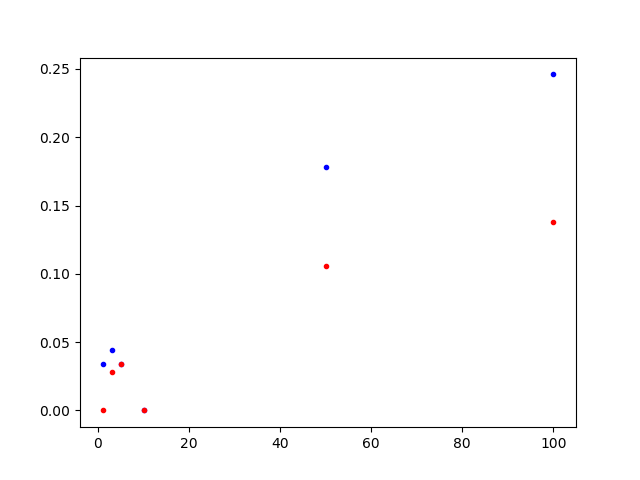
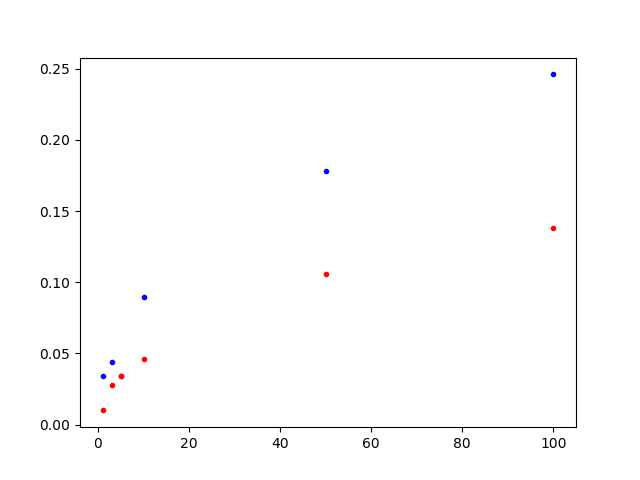
Accuracy plot, top 500

diff --git a/baseline.py b/baseline.py
@@ -118,7 +118,7 @@ def plot_kde(df, col):
     Recommend most recent, according to subject preference:
 '''
 
-def recent_subject(user, user_subjects, subject_areas):
+def recent_subject(user, user_subjects, subject_areas, most_recent_items):
     '''
     Recommends most recent item in user's chosen subject area:
 
@@ -126,22 +126,40 @@ def recent_subject(user, user_subjects, subject_areas):
     user: (int) User ID
     user_subjects: (pandas Dataframe) Users' chosen subject areas
     subject_areas: (pandas Dataframe) Subject area metadata
+    most_recent_items: (pandas Dataframe) Most recent items by subject
 
     OUTPUT:
-    rec: (int) Content ID of recommended document
+    rec: (str) Content ID of recommended document
     '''
     usa_mat = user_subjects.values
 
     mask = (usa_mat[:,0] == user)
 
-    areas = np.array(zip(*usa_mat[mask][1]))
+    areas = np.array(zip(*usa_mat[mask])[1])
 
     area = np.random.choice(areas)
 
-    area_name = subject_areas.loc[subject_areas.SubjectAreaID == area,\
-        ['SubjectAreaName']].values.flatten()[0]
+    area_n = subject_areas.loc[subject_areas.SubjectAreaID == area,\
+        ['SubjectAreaName']].values
 
-    return rec
+    if area_n:
+        area_name = area_n.flatten()[0]
+
+        reco = most_recent_items.loc[most_recent_items.primary_subject_area == \
+            area_name, ['content_id']].values
+
+        # print reco
+
+        if reco:
+            rec = reco.flatten()[0]
+            # rec = most_recent_items.loc[most_recent_items.primary_subject_area == \
+            #     area_name, ['content_id']].values.flatten()[0]
+
+            return str(rec)
+        else:
+            return None
+    else:
+        return None
 
 
 '''
@@ -172,6 +190,94 @@ def score_baseline(utility, favorites):
 
     return accuracy
 
+def score_most_recent(user_subjects, subject_areas, most_recent_items, utility):
+    '''
+    Calculates accuracy score of present recommender (most recent from subject).
+
+    INPUT:
+    user: (int) User ID
+    user_subjects: (pandas Dataframe) Users' chosen subject areas
+    subject_areas: (pandas Dataframe) Subject area metadata
+    most_recent_items: (pandas Dataframe) Most recent items by subject
+    utility: (Pandas DataFrame) Utility matrix of users who have dld data
+
+    OUTPUT:
+    score: (float) Accuracy score
+    '''
+    start_time = time()
+
+    users = utility.UserID.values
+    num_users = len(users)
+
+    predictions = []
+    count = 1
+    for user in users:
+        # print count, user
+
+        rec = recent_subject(user, user_subjects, subject_areas, most_recent_items)
+
+        if rec != None:
+            val = utility.loc[utility.UserID == user, [rec]].values.flatten()[0]
+        else:
+            val = 0
+
+        predictions.append(val)
+
+        count += 1
+
+    score = float(sum(predictions))/num_users
+
+    print "Elapsed time: ", (time() - start_time)
+
+    # return predictions
+    return score, predictions
+
+def score_most_recent_subset(user_subjects, subject_areas, most_recent_items,
+    utility, users, both=False):
+    '''
+    Calculates accuracy score of present recommender (most recent from subject).
+
+    INPUT:
+    user: (int) User ID
+    user_subjects: (pandas Dataframe) Users' chosen subject areas
+    subject_areas: (pandas Dataframe) Subject area metadata
+    most_recent_items: (pandas Dataframe) Most recent items by subject
+    utility: (Pandas DataFrame) Utility matrix of users who have dld data
+    users: (numpy array) Users of interest
+
+    OUTPUT:
+    score: (float) Accuracy score
+    '''
+
+    start_time = time()
+
+    num_users = len(users)
+
+    predictions = []
+    count = 1
+    for user in users:
+        # print count, user
+
+        rec = recent_subject(user, user_subjects, subject_areas, most_recent_items)
+
+        if rec != None:
+            val = utility.loc[utility.UserID == user, [rec]].values.flatten()[0]
+        else:
+            val = 0
+
+        predictions.append(val)
+
+        count += 1
+
+    score = float(sum(predictions))/num_users
+
+    print "Elapsed time: ", (time() - start_time)
+
+    if both:
+        return score, predictions
+    else:
+        return predictions
+
 '''
 ------------------------------------------------------------------------------
 '''
@@ -196,6 +302,9 @@ if __name__ == '__main__':
 
     #
     # X_train, X_test, y_train, y_test = train_test_split(X,y, random_state = 1)
+
+    smd = pd.read_csv('data/modified_data/subject_metadata.csv')
+    usa = pd.read_csv('data/metadata/User-SubjectArea.csv')
 
     # Distribution of favorited content ids:
     fav_dist = fav.content_id
@@ -239,6 +348,7 @@ if __name__ == '__main__':
         reset_index().rename(columns={'index':'UserID'})
     user_dlds['Prop'] = user_dlds['count']/user_dlds['count'].sum()
     # user_dlds.to_csv('data/modified_data/top_downloads_users.csv',index=False)
+    # user_dlds = pd.read_csv('data/modified_data/top_downloads_users.csv')
 
     user_dlds['count'].hist(grid=False,bins=300)
     if plot:
@@ -281,14 +391,32 @@ if __name__ == '__main__':
     print "The top {} users represent {} of the download data.".format(index,
         np.sum(prop[0:index]))
 
+    # Research by subject area:
+
+    rmd = pd.read_csv('data/metadata/ResearchMetadata.csv')
+    rmd_mod = rmd[['content_id','publish_date','primary_subject_area']].copy()
+    recent_subj_id = rmd_mod.groupby(['primary_subject_area'],as_index=False).max()
+    # recent_subj_id.to_csv('data/modified_data/recent_by_subject.csv')
+
     # Scores:
 
     top_fav_score = float(top_favs.max())/len(utility_favs)
     random_fav_score = score_baseline(utility_favs,fav_dist)
+    # score, preds = score_most_recent(usa,smd,recent_subj_id,utility_dld)
+    ''' Takes too long, score is: '''
+    score = 0.0071465
+
+    cutoff = 500
+    top_users = user_dlds.UserID.values[0:cutoff]
+    top_score, top_predicitons = score_most_recent_subset(usa,smd,recent_subj_id,
+        utility_dld,top_users)
+
 
     print "The most naive baselines are:"
     print "Recommending top favorite: ", top_fav_score
     print "Recommending random favorite: ", random_fav_score
+    print "Recommending most recent: ", score
+    print "Recommending most rect to top users: ", top_score
 
     end_time = time()
     print "Time elapsed: ", end_time - start_time

diff --git a/accuracy_data.py b/accuracy_data.py
@@ -7,14 +7,14 @@ import matplotlib.pyplot as plt
 Accuracy Data:
 '''
 '''
-                            1         3       5    10       50      100'''
-acc_500_10_0  = np.array([0.00,  0.00,  0.00,   0.00,   0.184, 0.256])
-acc_500_50_0  = np.array([0.034, 0.044, 0.034,   0.00,  0.178, 0.246])
-acc_500_100_0 = np.array([0.02,  0.047, 0.07425, 0.00,  0.00, 0.258])
+                            1         3      5     10       50    100'''
+acc_500_10_0  = np.array([0.014, 0.044,    0.05,  0.09,  0.184, 0.256])
+acc_500_50_0  = np.array([0.034, 0.044,   0.034,  0.09,  0.178, 0.246])
+acc_500_100_0 = np.array([0.02,  0.047, 0.07425, 0.074,  0.176, 0.258])
 
-acc_500_10_1  = np.array([0.00,  0.00,  0.00,    0.00,  0.00,  0.19])
-acc_500_50_1  = np.array([0.00,  0.028, 0.034,   0.00,  0.106, 0.138])
-acc_500_100_1 = np.array([0.012, 0.00,  0.00,    0.00,  0.00,  0.144])
+acc_500_10_1  = np.array([0.006, 0.026,  0.038,  0.054, 0.122, 0.19])
+acc_500_50_1  = np.array([0.01,  0.028, 0.034,   0.046, 0.106, 0.138])
+acc_500_100_1 = np.array([0.012, 0.014,  0.042,  0.048, 0.128, 0.144])
 
 '''
                             1   3   5   10  50  100 '''
@@ -75,11 +75,26 @@ cols = ['Breadth', 'N-size', 'recs', 'accuracy']
 
 acc_500 = pd.DataFrame(zerodata, columns=cols)
 
+x = acc_500.iloc[0:6,2].values
+y = acc_500.iloc[0:6,3].values
+plt.plot(x,y,'b.-', label='N=10,Breadth')
 x = acc_500.iloc[6:12,2].values
 y = acc_500.iloc[6:12,3].values
-plt.plot(x,y,'b.')
+plt.plot(x,y,'g.-', label='N=50,Breadth')
+x = acc_500.iloc[12:18,2].values
+y = acc_500.iloc[12:18,3].values
+plt.plot(x,y,'r.-', label='N=100,Breadth')
+x = acc_500.iloc[18:24,2].values
+y = acc_500.iloc[18:24,3].values
+plt.plot(x,y,'b*--', label='N=10,Depth')
 x = acc_500.iloc[24:30,2].values
 y = acc_500.iloc[24:30,3].values
-plt.plot(x,y,'r.')
-plt.savefig('figures/acc_50wd_point')
+plt.plot(x,y,'g*--', label='N=50,Depth')
+x = acc_500.iloc[30:36,2].values
+y = acc_500.iloc[30:36,3].values
+plt.plot(x,y,'r*--', label='N=100,Depth')
+plt.xlabel('Number of Recommendations')
+plt.ylabel('Accuracy')
+plt.legend()
+plt.savefig('figures/acc_500.png')
 plt.close()
